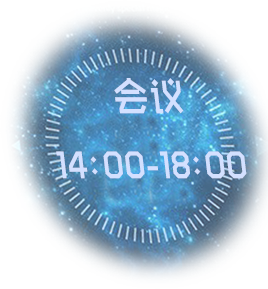
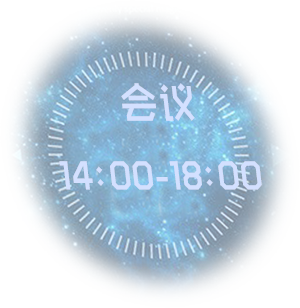
修改流程闪光及内容
修改流程闪光及内容

diff --git a/app/js/main.js b/app/js/main.js
@@ -11,7 +11,7 @@ var sourceArr = [
     'images/loading-bg.jpg',
     'images/universal-bg.jpg',
     'images/arrow-left.png',
-    'images/right.png',
+    'images/arrow-right.png',
     'images/bc.png',
     'images/city.png',
     'images/close.png',
@@ -28,10 +28,14 @@ var sourceArr = [
     'images/line.png',
     'images/music-off.png',
     'images/music-on.png',
-    'images/process-s8b97f2c170.png',
+    'images/process-s64cfe0c5a6.png',
     'images/star-bg.jpg',
     'images/wy.png',
     'images/yc.png',
+    'images/cf-light.png',
+    'images/hy-light.png',
+    'images/wy-light.png',
+    'images/hyyq-light.png',
     'media/bgmusic.mp3'
 ]; //需要加载的资源列表
 
@@ -69,6 +73,10 @@ function setImages() {
     $('#arrow-left').css('background-image', 'url(images/arrow-left.png)');
     $('#arrow-right').css('background-image', 'url(images/arrow-right.png)');
     $('#bc-detail').css('background-image', 'url(images/bc.png)');
+    $('#cf-light').css('background-image', 'url(images/cf-light.png)');
+    $('#hy-light').css('background-image', 'url(images/hy-light.png)');
+    $('#wy-light').css('background-image', 'url(images/wy-light.png)');
+    $('#hyyq-light').css('background-image', 'url(images/hyyq-light.png)');
 }
 
 // 音乐初始化
@@ -381,25 +389,25 @@ var cfBreath = new TimelineMax({
     paused: true,
 });
 
-cfBreath.to('#cf', 1.6, {autoAlpha: 0.6, ease: Power1.easeInOut, repeat: -1, yoyo: true});
+cfBreath.to('#cf-light', 0.6, {autoAlpha: 0.1, ease: Power1.easeInOut, repeat: -1, yoyo: true});
 
 var hyBreath = new TimelineMax({
     paused: true,
 });
 
-hyBreath.to('#hy', 1.6, {autoAlpha: 0.5, ease: Power1.easeInOut, repeat: -1, yoyo: true});
+hyBreath.to('#hy-light', 0.6, {autoAlpha: 0.1, ease: Power1.easeInOut, repeat: -1, yoyo: true});
 
 var wyBreath = new TimelineMax({
     paused: true,
 });
 
-wyBreath.to('#wy', 1.6, {autoAlpha: 0.5, ease: Power1.easeInOut, repeat: -1, yoyo: true});
+wyBreath.to('#wy-light', 0.6, {autoAlpha: 0.1, ease: Power1.easeInOut, repeat: -1, yoyo: true});
 
 var hyyqBreath = new TimelineMax({
     paused: true,
 });
 
-hyyqBreath.to('#hyyq', 1.6, {autoAlpha: 0.5, ease: Power1.easeInOut, repeat: -1, yoyo: true});
+hyyqBreath.to('#hyyq-light', 0.6, {autoAlpha: 0.1, ease: Power1.easeInOut, repeat: -1, yoyo: true});
 
 
 // computer抖动

diff --git a/app/css/main.css b/app/css/main.css
@@ -455,49 +455,49 @@ body {
 
 /*=================process start=======================*/
 .process-sprite, .process-cf, .process-hd, .process-hy, .process-hyyq, .process-rc, .process-wy {
-  background-image: url('../images/process-s8b97f2c170.png');
+  background-image: url('../images/process-s64cfe0c5a6.png');
   background-repeat: no-repeat;
 }
 
 .process-cf {
-  background-position: 0 -651px;
-  height: 274px;
-  width: 290px;
+  background-position: 0 -661px;
+  height: 292px;
+  width: 308px;
 }
 
 .process-hd {
-  background-position: 0 -391px;
+  background-position: 0 -401px;
   height: 260px;
   width: 259px;
 }
 
 .process-hy {
-  background-position: 0 -925px;
-  height: 289px;
-  width: 268px;
+  background-position: 0 -953px;
+  height: 308px;
+  width: 300px;
 }
 
 .process-hyyq {
   background-position: 0 0;
-  height: 156px;
-  width: 146px;
+  height: 166px;
+  width: 156px;
 }
 
 .process-rc {
-  background-position: 0 -156px;
+  background-position: 0 -166px;
   height: 235px;
   width: 223px;
 }
 
 .process-wy {
-  background-position: 0 -1214px;
-  height: 301px;
-  width: 277px;
+  background-position: 0 -1261px;
+  height: 315px;
+  width: 294px;
 }
 
 #cf {
-  top: 26px;
-  left: 115px;
+  top: 18px;
+  left: 108px;
 }
 
 #rc {
@@ -506,8 +506,8 @@ body {
 }
 
 #hy {
-  top: 481px;
-  left: 372px;
+  top: 470px;
+  left: 362px;
 }
 
 #hd {
@@ -516,13 +516,41 @@ body {
 }
 
 #wy {
-  top: 1130px;
-  left: 363px;
+  top: 1124px;
+  left: 354px;
 }
 
 #hyyq {
-  top: 1142px;
-  left: 4px;
+  top: 1136px;
+  left: 2px;
+}
+
+#cf-light {
+  top: 38px;
+  left: 132px;
+  width: 252px;
+  height: 253px;
+}
+
+#hy-light {
+  top: 500px;
+  left: 386px;
+  width: 252px;
+  height: 253px;
+}
+
+#wy-light {
+  top: 1154px;
+  left: 374px;
+  width: 252px;
+  height: 253px;
+}
+
+#hyyq-light {
+  top: 1140px;
+  left: 0px;
+  width: 155px;
+  height: 156px;
 }
 
 #process-detail-container {
@@ -555,7 +583,7 @@ body {
   top: 57px;
   left: 57px;
   width: 388px;
-  height: 356px;
+  height: 400px;
   overflow-x: hidden;
   overflow-y: scroll;
   /* has to be scroll, not auto */
@@ -564,7 +592,7 @@ body {
 
 #bc-detail {
   width: 387px;
-  height: 959px;
+  height: 738px;
 }
 
 #end-content1 {

diff --git a/app/scss/main.scss b/app/scss/main.scss
@@ -253,8 +253,8 @@ $process-sprite-dimensions: true;
 @include  all-process-sprites;
 
 #cf {
-    top: 26px;
-    left: 115px;
+    top: 18px;
+    left: 108px;
 }
 
 #rc {
@@ -263,8 +263,8 @@ $process-sprite-dimensions: true;
 }
 
 #hy {
-    top: 481px;
-    left: 372px;
+    top: 470px;
+    left: 362px;
 }
 
 #hd {
@@ -273,13 +273,49 @@ $process-sprite-dimensions: true;
 }
 
 #wy {
-    top: 1130px;
-    left: 363px;
+    top: 1124px;
+    left: 354px;
 }
 
 #hyyq {
-    top: 1142px;
-    left: 4px;
+    top: 1136px;
+    left: 2px;
+}
+
+#cf-light {
+    top: 38px;
+    left: 132px;
+    $cf-light: '../images/cf-light.png';
+    width: image-width($cf-light);
+    height: image-height($cf-light);
+    // background-image: url($cf-light);
+}
+
+#hy-light {
+    top: 500px;
+    left: 386px;
+    $hy-light: '../images/hy-light.png';
+    width: image-width($hy-light);
+    height: image-height($hy-light);
+    // background-image: url($hy-light);
+}
+
+#wy-light {
+    top: 1154px;
+    left: 374px;
+    $wy-light: '../images/wy-light.png';
+    width: image-width($wy-light);
+    height: image-height($wy-light);
+    // background-image: url($wy-light);
+}
+
+#hyyq-light {
+    top: 1140px;
+    left: 0px;
+    $hyyq-light: '../images/hyyq-light.png';
+    width: image-width($hyyq-light);
+    height: image-height($hyyq-light);
+    // background-image: url($hyyq-light);
 }
 
 #process-detail-container {
@@ -316,7 +352,7 @@ $process-sprite-dimensions: true;
     top: 57px;
     left: 57px;
     width: 388px;
-    height: 356px;
+    height: 400px;
     // background: rgba(255, 0, 0, 0.3);
     overflow-x: hidden;
     overflow-y: scroll; /* has to be scroll, not auto */

diff --git a/app/index.html b/app/index.html
@@ -49,6 +49,10 @@
 
         <div class="scrolly-container" id="process">
             <div class="ab-element" id="process-all">
+                <div class="ab-element" id="cf-light"></div>
+                <div class="ab-element" id="hy-light"></div>
+                <div class="ab-element" id="wy-light"></div>
+                <div class="ab-element" id="hyyq-light"></div>
                 <div class="ab-element process-cf process-item" id="cf"></div>
                 <div class="ab-element process-rc process-item" id="rc"></div>
                 <div class="ab-element process-hy process-item" id="hy"></div>
